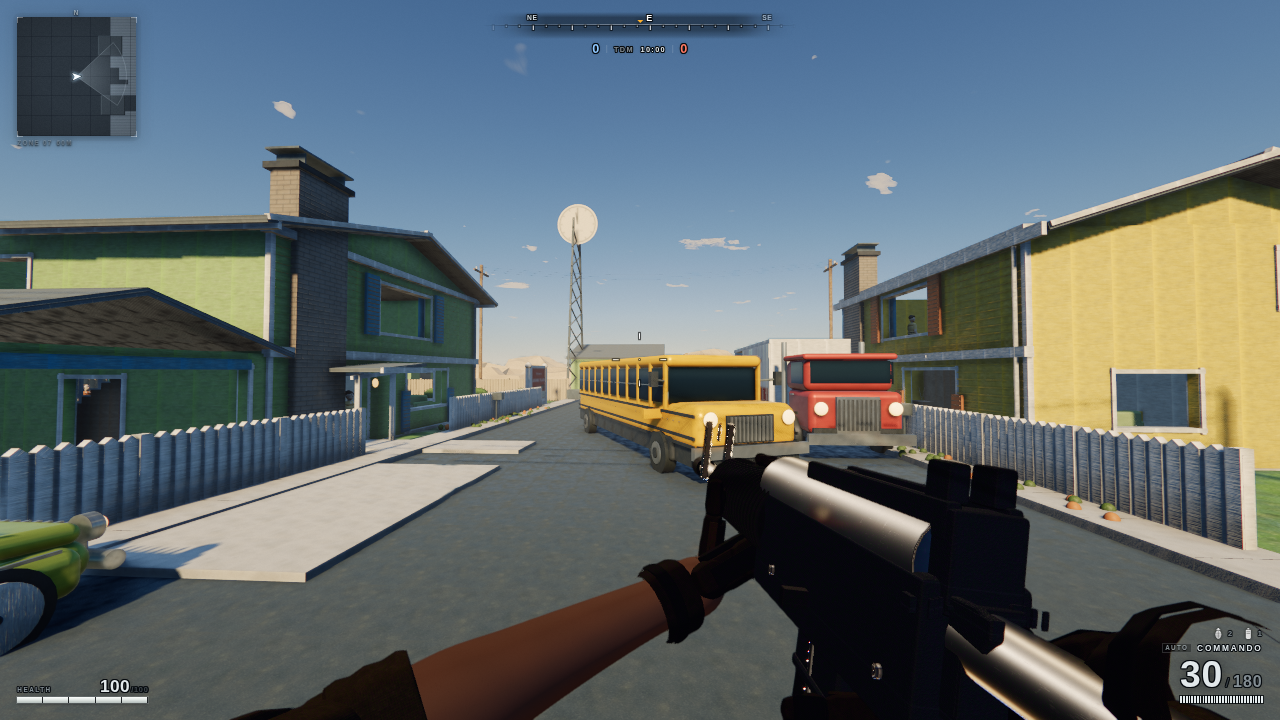
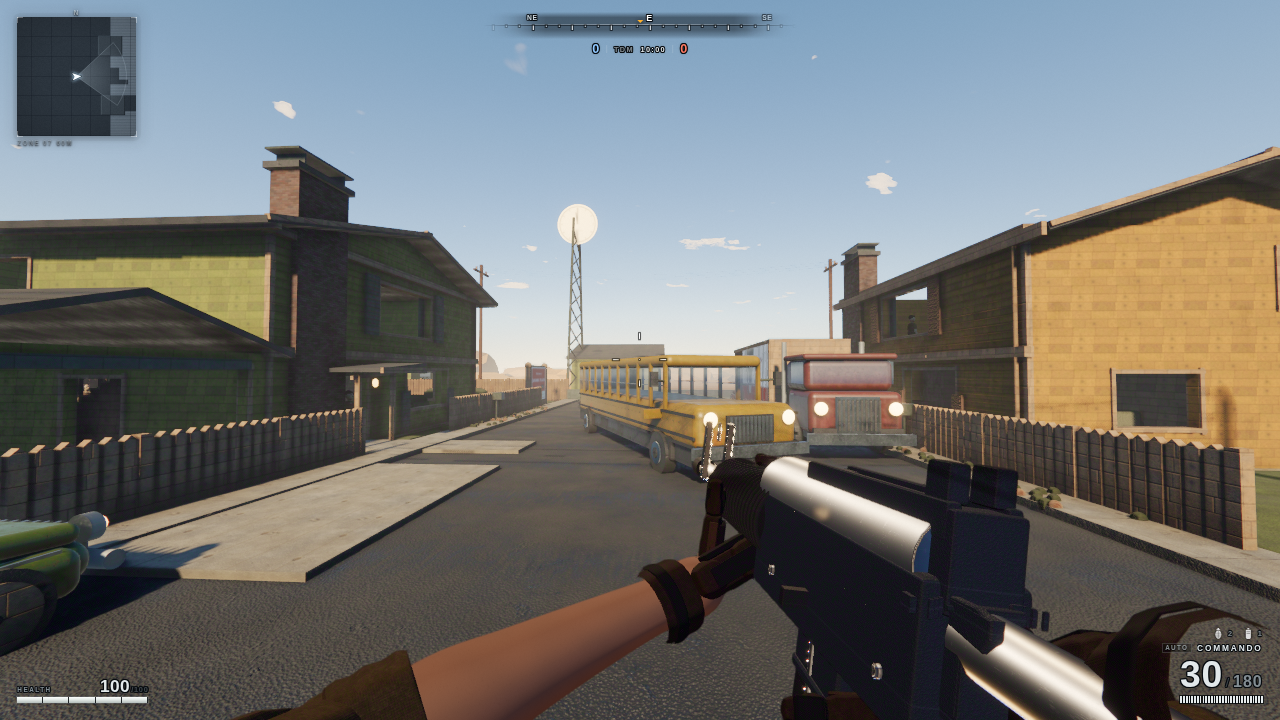
Brighten house and bus tints over the procedural siding

diff --git a/examples/urban-raid/src/world/atomic-culdesac.js b/examples/urban-raid/src/world/atomic-culdesac.js
@@ -99,10 +99,10 @@ function materials(A, rng) {
     }
     return A.registerMaterial(key, A.materials.get(name, opts), surf);
   };
-  surface("ac-green", "#8fb55f", "wood");
-  surface("ac-yellow", "#e8c63f", "wood");
-  surface("ac-white", "#ece7d6", "wood");
-  surface("ac-blue", "#2f7f90", "wood");
+  surface("ac-green", "#b6e36a", "wood");
+  surface("ac-yellow", "#ffdc45", "wood");
+  surface("ac-white", "#f4efe2", "wood");
+  surface("ac-blue", "#3a93a6", "wood");
   surface("ac-wood", "#8e6b47", "wood");
   surface("ac-fence", "#b6a17a", "wood");
   surface("ac-roof", "#606560", "roof");
@@ -114,7 +114,7 @@ function materials(A, rng) {
   surface("ac-sand", "#bfa780", "sand");
   surface("ac-cream", "#ded3b7", "wood");
   surface("ac-rust", "#914e3e", "metal", 0.53, 0.35);
-  surface("ac-bus", "#f2b60c", "metal", 0.4, 0.35);
+  surface("ac-bus", "#ffc21e", "metal", 0.4, 0.35);
   surface("ac-red", "#a73e35", "metal", 0.4, 0.35);
   surface("ac-car", "#90a64d", "metal", 0.35, 0.4);
   surface("ac-metal", "#777e79", "metal", 0.42, 0.65);
